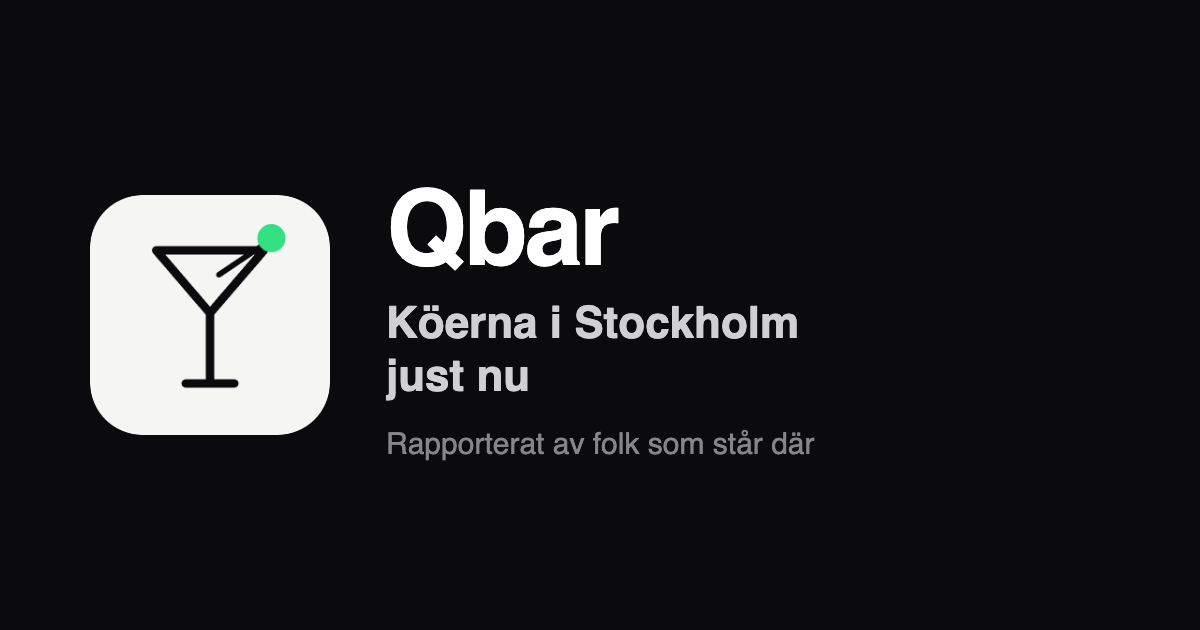
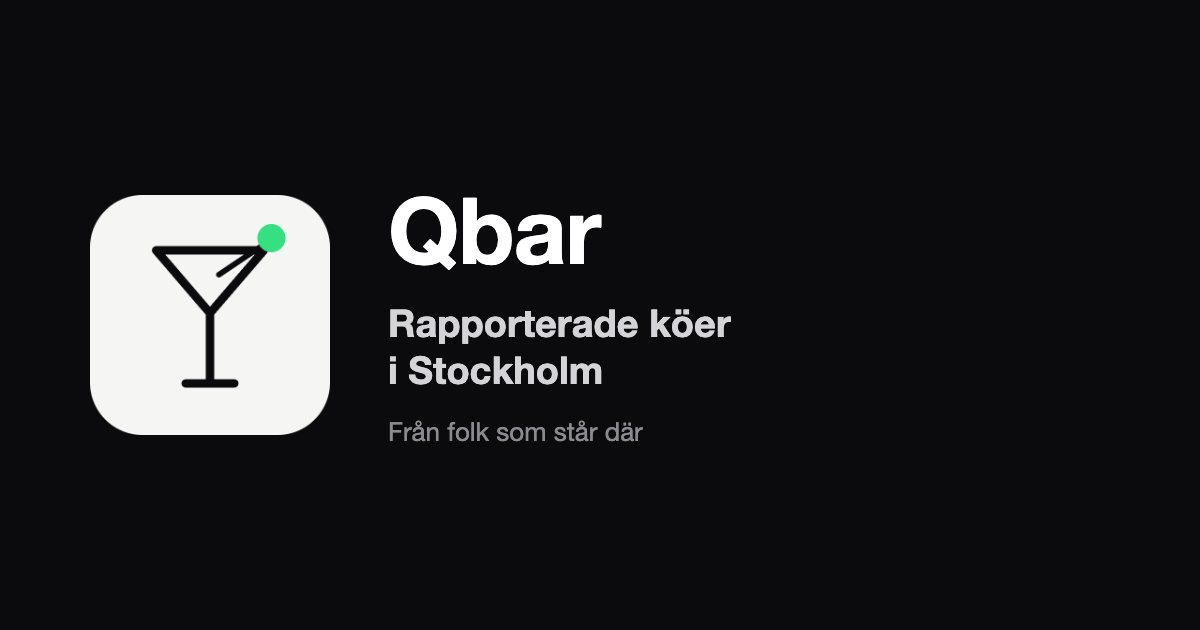
Inför App Store: anmäl fel uppgift i ställets kort, ingen dold testgest i iOS-appen, Mapbox utan prestandamätning och med en kreditering, utan "just nu"; bundle-id se.qbar.app

Changed region(s): [[0.3083, 0.4825, 0.6783, 0.6333], [0.3083, 0.3016, 0.5242, 0.4222], [0.3083, 0.6635, 0.6783, 0.7238]]

diff --git a/src/main.js b/src/main.js
@@ -1289,7 +1289,10 @@ import './style.css';
       // Vägbeskrivning i länkraden bara när huvudknappen inte redan öppnar den ("Jag ska dit" gör det): vid stället och stängt.
       document.getElementById('vc-dir').hidden = !primary.hidden && primary.onclick !== goToReport;
 
-      document.getElementById('vc-timeline').innerHTML = closed ? '' : queueChangeHtml(reports) + queueListHtml(reports);
+      document.getElementById('vc-timeline').innerHTML = closed ? '' : queueChangeHtml(reports) + queueListHtml(reports) +
+        // Regel 1.2: rapporter och "Från stället" går att anmäla; falska tas bort för hand (villkoren i integritet.html).
+        (reports.length || noteLines.length ? '<a class="vc-link" href="mailto:qbar.info1@gmail.com?subject=' +
+          encodeURIComponent('Fel om ' + venue.name + ' (' + venue.id + ')') + '">Fel uppgift? Anmäl</a>' : '');
       document.getElementById('vc-area').textContent = venue.area + ' · ' + venueTypeLabel(venue.type) + (km !== null ? ' · ' + formatDistance(km) : '');
       var favBtn = document.getElementById('vc-fav');
       if (favBtn) { favBtn.classList.toggle('fav', isFavorite(venue.id)); favBtn.setAttribute('aria-pressed', isFavorite(venue.id) ? 'true' : 'false'); }
@@ -1768,8 +1771,11 @@ import './style.css';
           pitchWithRotate: false,
           dragRotate: false,
           logoPosition: 'bottom-right',
-          // Ingen attributionControl: false. © Mapbox © OpenStreetMap krävs av Mapbox villkor och OSM:s licens; under 640 px
-          // bred karta är rutan kompakt, ett (i) som fälls ut.
+          // © Mapbox © OpenStreetMap krävs av Mapbox villkor och OSM:s licens: kontrollen läggs till nedan, kompakt. Den
+          // inbyggda stängs av, annars stod krediteringen två gånger.
+          attributionControl: false,
+          // Mapbox prestandamätningar (gljs.performance) skickas inte; kartladdningarna räknas ändå (fakturering).
+          performanceMetricsCollection: false,
         });
         map.touchZoomRotate.disableRotation();
 
@@ -2694,10 +2700,11 @@ import './style.css';
       toggleTestData();
     });
 
-    // Fem snabba tryck på rubriken "Profil": samma växling på en telefon, som saknar Alt + 2 och adressfält (iOS-appen,
-    // App Store-granskaren). Står i granskningsanteckningarna.
+    // Fem snabba tryck på rubriken "Profil": samma växling på en telefon, som saknar Alt + 2 och adressfält. Inte i
+    // iOS-appen: en dold funktion som inte står i granskningsanteckningarna (regel 2.3.1); granskaren har rundturen.
     var _titleTaps = 0, _titleTapTimer = null;
     document.querySelector('#screen-profile h1').addEventListener('click', function() {
+      if (IS_NATIVE_APP) return;
       clearTimeout(_titleTapTimer);
       _titleTapTimer = setTimeout(function() { _titleTaps = 0; }, 600); // snabba tryck: långsamma tryck på rubriken slog på läget av misstag
       if (++_titleTaps < 5) return;
@@ -3379,7 +3386,7 @@ import './style.css';
       var el = document.getElementById('pf-push-sub'), st = pushState();
       if (el) el.textContent = st === 'on' && !favorites.length ? 'På · spara ett ställe med stjärnan' : PUSH_SUB_TEXT[st];
       // shortcut: webbpush finns inte i appskalet, så raden döljs där; visa den igen när APNs är på plats.
-      if (el && IS_NATIVE_APP) el.closest('.pf-card').style.display = 'none';
+      if (el && IS_NATIVE_APP) el.closest('.pf-section').style.display = 'none';
     }
 
     // Efter en ny favorit, tills notiserna är på eller rutan stängts med ×. false = ingen ruta, visa toasten.

diff --git a/public/integritet.html b/public/integritet.html
@@ -90,8 +90,9 @@
   <ul>
     <li><b>Supabase</b> (databas, Stockholm): allt som står under "på servern".</li>
     <li><b>Vercel</b> (driften av appen): ser din IP-adress när sidan hämtas.</li>
-    <li><b>Mapbox</b> (kartan): ser din IP-adress och vilket kartområde som hämtas, och tar emot anonym statistik om
-      kartans användning (events.mapbox.com).</li>
+    <li><b>Mapbox</b> (kartan): ser din IP-adress och vilket kartområde som hämtas, och får veta när kartan laddas
+      (events.mapbox.com), med ett slumpat id som Mapbox sparar i appen och använder för att räkna kartladdningar.
+      Id:t är inte kopplat till dina rapporter.</li>
     <li><b>Fontshare</b> (typsnitt): ser din IP-adress.</li>
     <li><b>Google Maps</b>, bara när du trycker på Vägbeskrivning eller Jag ska dit: får ställets namn och adress som mål.</li>
     <li><b>Apple eller Google</b>, bara med notiser på: levererar notisen till telefonen.</li>

diff --git a/index.html b/index.html
@@ -9,9 +9,9 @@
   <!-- iOS kräver PNG för hemskärmen; SVG blev en skärmdump. Manifestet som fil: en data:-URL kan inte tolka start_url. -->
   <link rel="apple-touch-icon" href="/icons/apple-touch-icon.png">
   <link rel="manifest" href="/manifest.webmanifest">
-  <title>Qbar – köerna i Stockholm just nu</title>
+  <title>Qbar – rapporterade köer i Stockholm</title>
   <meta name="description" content="Se hur lång kön är på Stockholms barer och klubbar, rapporterat av folk som står där. Anonymt, utan konto.">
-  <meta property="og:title" content="Qbar – köerna i Stockholm just nu">
+  <meta property="og:title" content="Qbar – rapporterade köer i Stockholm">
   <meta property="og:description" content="Se hur lång kön är på Stockholms barer och klubbar, rapporterat av folk som står där.">
   <meta property="og:url" content="https://qbar-app.vercel.app/">
   <meta property="og:type" content="website">

diff --git a/src/style.css b/src/style.css
@@ -462,6 +462,7 @@
       font: 600 calc(13 * var(--u)) var(--font-base); color: var(--text-secondary);
     }
     .vc-link[hidden] { display: none; }
+    a.vc-link { display: inline-flex; align-items: center; text-decoration: none; }
     /* "Stäng" längst till höger, bara i den utfällda kapseln. I listan fälls raden ihop med ett tryck på raden. Den dolda
        tangentbordsknappen (.vc-close) behövs inte när den här syns. */
     .vc-link--close { margin-left: auto; }

diff --git a/store/APP_STORE.md b/store/APP_STORE.md
@@ -9,9 +9,9 @@ Texterna nedan klistras in i App Store Connect som de står.
 2. Xcode → Settings → Accounts → lägg till ditt Apple-ID.
 3. `cd ~/Desktop/fm-wt && npm run ios` (bygger, synkar och öppnar Xcode).
 4. Klicka **App** i listan till vänster → **Signing & Capabilities** → välj ditt team under **Team**.
-   Bundle-id `se.queuebar.qbar` registreras automatiskt.
+   Bundle-id `se.qbar.app` (registrerat för hand under developer.apple.com → Identifiers).
 5. App Store Connect → Appar → **+** → Ny app: iOS, namn enligt nedan, primärt språk **svenska**,
-   bundle-id `se.queuebar.qbar`, SKU `qbar`.
+   bundle-id `se.qbar.app`, SKU `qbar`.
 6. I Xcode: välj **Any iOS Device (arm64)** som mål → **Product → Archive** → **Distribute App → App Store Connect**.
 7. Fyll i App Store Connect med avsnitten nedan, ladda upp bilderna i `store/screenshots/`, välj bygget och skicka in.
 8. Under **Pris och tillgänglighet**: avmarkera **Tillgänglig på Mac** (appen är byggd för iPhone i stående läge).
@@ -38,7 +38,7 @@ Två tryck räcker: välj stället och hur många som står framför dig. När t
 • Rapporter från de senaste 45 minuterna, med hur gamla de är
 • Uppskattad väntetid när tre personer är överens
 • "Bäst nu": där du troligen kommer in snabbast, räknat med promenaden dit
-• Live: de senaste rapporterna i stan
+• Flöde med de senaste rapporterna i stan
 • Stängningstider där de är kända
 • Vägbeskrivning till fots
 
@@ -75,7 +75,9 @@ Svara i frågeformuläret:
 - Alkohol, tobak eller droger, referenser: **Ofta/intensivt** (appen handlar om barer och nattklubbar)
 - Allt annat: **Nej/Ingen**
 - Obegränsad webbåtkomst: **Nej** (externa länkar öppnas i Safari eller Google Maps, inte i appen)
-- Användargenererat innehåll: kö-rapporterna är bara antal och tid, ingen fri text
+- Användargenererat innehåll: **Ja**. Kö-rapporterna är antal och tid; "Från stället" är ställets egen fri text (bara
+  ställen med avtal, inloggade på krog.html). Allt går att anmäla i appen ("Fel uppgift? Anmäl" i ställets kort, e-post till
+  qbar.info1@gmail.com), och falska rapporter tas bort för hand
 
 Välj sedan manuellt **18+**: villkoren i `integritet.html` säger att Qbar är för den som fyllt 18.
 
@@ -90,6 +92,7 @@ installation, och Apple räknar data med ett beständigt id som kopplad till anv
 | Identifierare → Användar-id (slumpat id per installation, nyckeln till Radera min data) | Ja | Appens funktion | Ja | Nej |
 | Plats → Ungefärlig plats (om du var inom 300 m från stället när du rapporterade, ja/nej) | Ja | Appens funktion | Ja | Nej |
 | Användningsdata → Produktinteraktion (Mapbox räknar kartladdningar) | Ja | Analys (tredje part) | Nej | Nej |
+| Identifierare → Enhets-id (Mapbox: slumpat id i kartans kartladdningshändelser, för Mapbox fakturering) | Ja | Analys (tredje part) | Nej | Nej |
 
 Exakt position skickas aldrig.
 
@@ -124,6 +127,8 @@ Native features:
   how many people are ahead of you. This needs a real report, so it does not appear in the tour.
 
 Delete my data: Profil > Radera min data removes all reports and data tied to the device's random id.
+Wrong or abusive information: every venue with reports has "Fel uppgift? Anmäl" (report a problem), which emails us;
+false reports are removed by hand.
 Support: qbar.info1@gmail.com
 ```
 

diff --git a/CLAUDE.md b/CLAUDE.md
@@ -106,7 +106,7 @@ npm run ios                # bygger, kopierar till ios/ (Capacitor) och öppnar 
 ```
 
 **iOS-appen** (för App Store, **inte inskickad**: kräver Apple Developer Program; texter, skärmbilder, integritetssvar och
-granskningsanteckningar finns i `store/APP_STORE.md`) är Capacitor runt samma bygge: `capacitor.config.json` (bundle-id `se.queuebar.qbar`) och
+granskningsanteckningar finns i `store/APP_STORE.md`) är Capacitor runt samma bygge: `capacitor.config.json` (bundle-id `se.qbar.app`) och
 `ios/`. Bara iPhone, bara stående, alltid mörkt läge; platstexten står i `ios/App/App/Info.plist`. Ikonen är
 `favicon.svg` utan rundade hörn, 1024 px utan alfakanal. `IS_NATIVE_APP` i `src/main.js` döljer det som bara gäller
 webben. Platsen går i appen via `@capacitor/geolocation` (`startLocation`): WebKits `navigator.geolocation` frågade
